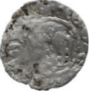
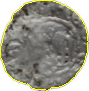
draw contour onto images

diff --git a/Scripts/extract_imagine.py b/Scripts/extract_imagine.py
@@ -54,11 +54,13 @@ for i in range(rows):
 
 #save images
 cnts = cv.findContours(betterholesimg, cv.RETR_EXTERNAL, cv.CHAIN_APPROX_SIMPLE)
+print(type(cnts))
 cnts = cnts[0] if len(cnts) == 2 else cnts[1]
 image_number = 0
 for c in cnts:
     x,y,w,h = cv.boundingRect(c)
     #cv.rectangle(img, (x, y), (x + w, y + h), (36,255,12), 2)
+    cv.drawContours(img, [c], -1, (0,255,255), 1)
     element = img[y:y+h, x:x+w]
     cv.imwrite("Assets\\Objects\\element_{}.png".format(image_number), element)
     image_number += 1
